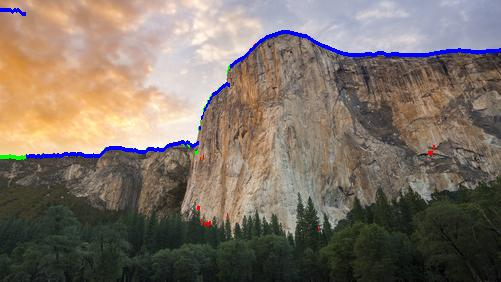
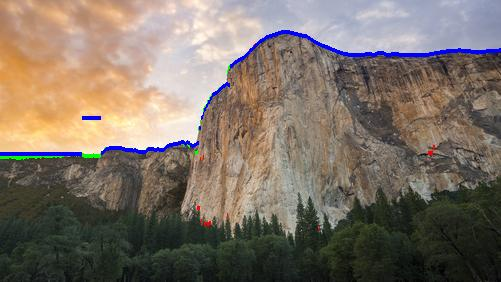
Question 2 A3

Changed region(s): [[0.0, 0.5106, 0.2395, 0.5674], [0.0, 0.0, 0.0599, 0.0567], [0.1497, 0.3972, 0.2096, 0.4255]]

diff --git a/part2/mountain.py b/part2/mountain.py
@@ -181,7 +181,7 @@ class mountainRidgeFinding:
 			samples.append(self.calculateSample(coordTuple[0], coordTuple[1]))'''
 		print(edge_strength.shape[0], edge_strength.shape[1])
 		listOfSamples = []
-		for i in range(0, 1):
+		for i in range(0, 500):
 			listOfSamples.append(self.sample3())
 		samples2 = self.sample2()
 		humanSample = self.sample4()
